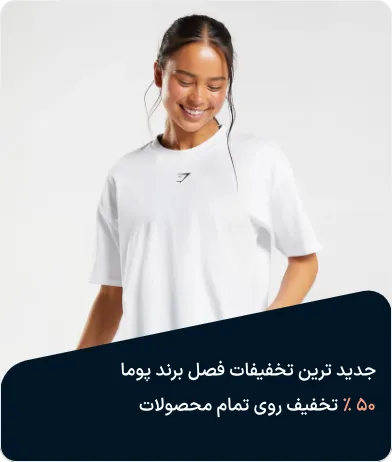
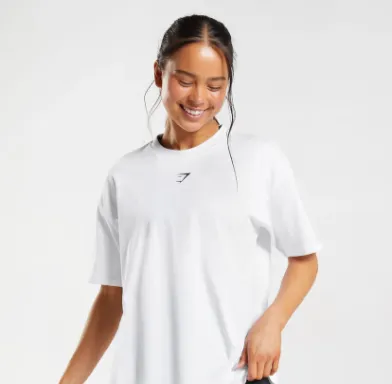
update HomePage

diff --git a/src/components/Home/PromoSection.tsx b/src/components/Home/PromoSection.tsx
@@ -1,5 +1,7 @@
 // src/components/Home/PromoSection.tsx
-import { Box, Typography, Button, Grid } from "@mui/material";
+import { Box, Typography, Button } from "@mui/material";
+import Grid from "@mui/material/Grid";
+
 import { styled } from "@mui/system";
 import { cssMainColors } from "../../styles/cssVariables/cssVariables";
 
@@ -17,19 +19,28 @@ interface PromoSectionProps {
 }
 
 const PromoBox = styled(Box)(({ theme }) => ({
-  padding: "40px 0",
+  padding: "60px 0",
   [theme.breakpoints.down("md")]: {
     textAlign: "center",
   },
 }));
 
 const ProductCard = styled(Box)(({ theme }) => ({
-  borderRadius: 16,
+  borderRadius: 20,
   backgroundColor: theme.palette.background.paper,
   overflow: "hidden",
   position: "relative",
-  textAlign: "center",
+  height: "100%",
+  display: "flex",
+  flexDirection: "column",
+  justifyContent: "flex-end",
 }));
+
+const ProductImage = styled("img")({
+  width: "100%",
+  height: "auto",
+  objectFit: "cover",
+});
 
 const DiscountTag = styled(Box)(({ theme }) => ({
   position: "absolute",
@@ -38,14 +49,12 @@ const DiscountTag = styled(Box)(({ theme }) => ({
   left: 0,
   backgroundColor: theme.palette.text.primary,
   color: "#fff",
-  borderTopLeftRadius: 30,
-  borderTopRightRadius: 0,
-  borderBottomRightRadius: 0,
-  borderBottomLeftRadius: 30,
-  padding: "16px",
-  fontSize: "1rem",
+  padding: "20px",
   fontWeight: "bold",
+  fontSize: "1rem",
   direction: "rtl",
+  borderTopLeftRadius: 40,
+  borderBottomRightRadius: 40,
 }));
 
 export const PromoSection = ({
@@ -57,7 +66,7 @@ export const PromoSection = ({
   return (
     <PromoBox>
       <Grid container spacing={4} alignItems="center">
-        <Grid item xs={12} md={4}>
+        <Grid item xs={12} md={4} sx={{ ml: { md: "auto" } }}>
           <Typography variant="h5" fontWeight="bold" color="text.primary" mb={2}>
             {title}
           </Typography>
@@ -72,10 +81,12 @@ export const PromoSection = ({
         {products.map((product, index) => (
           <Grid item xs={12} sm={6} md={4} key={index}>
             <ProductCard>
-              <img src={product.image} alt={product.title} style={{ width: "100%", height: "auto" }} />
+              <ProductImage src={product.image} alt={product.title} />
               <DiscountTag>
-                {product.title} <br />{" "}
-                <span style={{ color: cssMainColors.crimsonRed }}>{product.discount}</span>
+                {product.title} <br />
+                <span style={{ color: cssMainColors.crimsonRed }}>
+                  {product.discount}
+                </span>
               </DiscountTag>
             </ProductCard>
           </Grid>

diff --git a/src/components/Home/AerobicBanner.tsx b/src/components/Home/AerobicBanner.tsx
@@ -1,0 +1,71 @@
+// src/components/Home/AerobicBanner.tsx
+import { Box, Button, Grid, Typography } from "@mui/material";
+import { margin, styled } from "@mui/system";
+import { pinkWoman } from "../../assets/images/index"; // مسیر عکس بکگراندت اینجا تغییر بده اگر فرق داشت
+import { cssMainColors } from "../../styles/cssVariables/cssVariables";
+
+const Background = styled(Box)(({ theme }) => ({
+  backgroundImage: `url(${pinkWoman})`,
+//   backgroundSize: "cover",
+//   backgroundPosition: "center",
+  backgroundRepeat: "no-repeat",
+  minHeight: 400,
+  borderRadius: 16,
+  padding: theme.spacing(6),
+  display: "flex",
+  alignItems: "center",
+  justifyContent: "right",
+  [theme.breakpoints.down("md")]: {
+    padding: theme.spacing(4),
+    minHeight: 300,
+  },
+}));
+
+const ContentBox = styled(Box)(({ theme }) => ({
+  backgroundColor: "rgba(255, 255, 255, 0.8)", // کمرنگ برای خوانایی متن
+  padding: theme.spacing(4),
+  borderRadius: 12,
+  textAlign: "right",
+  maxWidth: 400,
+  [theme.breakpoints.down("md")]: {
+    textAlign: "center",
+    margin: "0 auto",
+  },
+}));
+
+const AerobicBanner = () => {
+  return (
+    <Background>
+      <Grid container alignItems="center" justifyContent="flex-end">
+        <Grid item xs={12} md={5}>
+          <ContentBox dir="rtl">
+            <Typography variant="subtitle1" color="text.secondary" mb={1}>
+              برای حال خوب
+            </Typography>
+            <Typography variant="h5" fontWeight="bold" mb={3}>
+              لوازم ایروبیک و تناسب اندام بگیر
+            </Typography>
+            <Button
+              variant="contained"
+              size="large"
+              sx={{
+                backgroundColor: cssMainColors.secondary,
+                borderRadius: 8,
+                px: 5,
+                py: 1.5,
+                fontWeight: "bold",
+                "&:hover": {
+                  backgroundColor: cssMainColors.primary,
+                },
+              }}
+            >
+              مشاهده همه محصولات
+            </Button>
+          </ContentBox>
+        </Grid>
+      </Grid>
+    </Background>
+  );
+};
+
+export default AerobicBanner;

diff --git a/src/pages/home/HomePage.tsx b/src/pages/home/HomePage.tsx
@@ -3,6 +3,7 @@ import { Container } from "@mui/material";
 import Header from "../../components/Layout/Header";
 import HeroSection from "../../components/Home/HeroSection";
 import PromoProducts from "../../components/Home/PromoProducts";
+import AerobicBanner from "../../components/Home/AerobicBanner";
 
 const HomePage = () => {
   return (
@@ -10,7 +11,8 @@ const HomePage = () => {
       <Header />
       <Container maxWidth="xl">
         <HeroSection />
-        <PromoProducts /> 
+        <PromoProducts />
+        <AerobicBanner /> 
       </Container>
     </>
   );

diff --git a/src/components/Home/NewProducts.tsx b/src/components/Home/NewProducts.tsx
@@ -1,0 +1,10 @@
+export default function HelloWord() {
+    return (
+        <>
+        <h1>hello</h1>
+        <main>
+
+        </main>
+        </>
+    )
+}

diff --git a/src/styles/theme/theme.ts b/src/styles/theme/theme.ts
@@ -40,3 +40,4 @@ export const darkTheme: Theme = createTheme({
   },
   ...baseTypography,
 });
+
